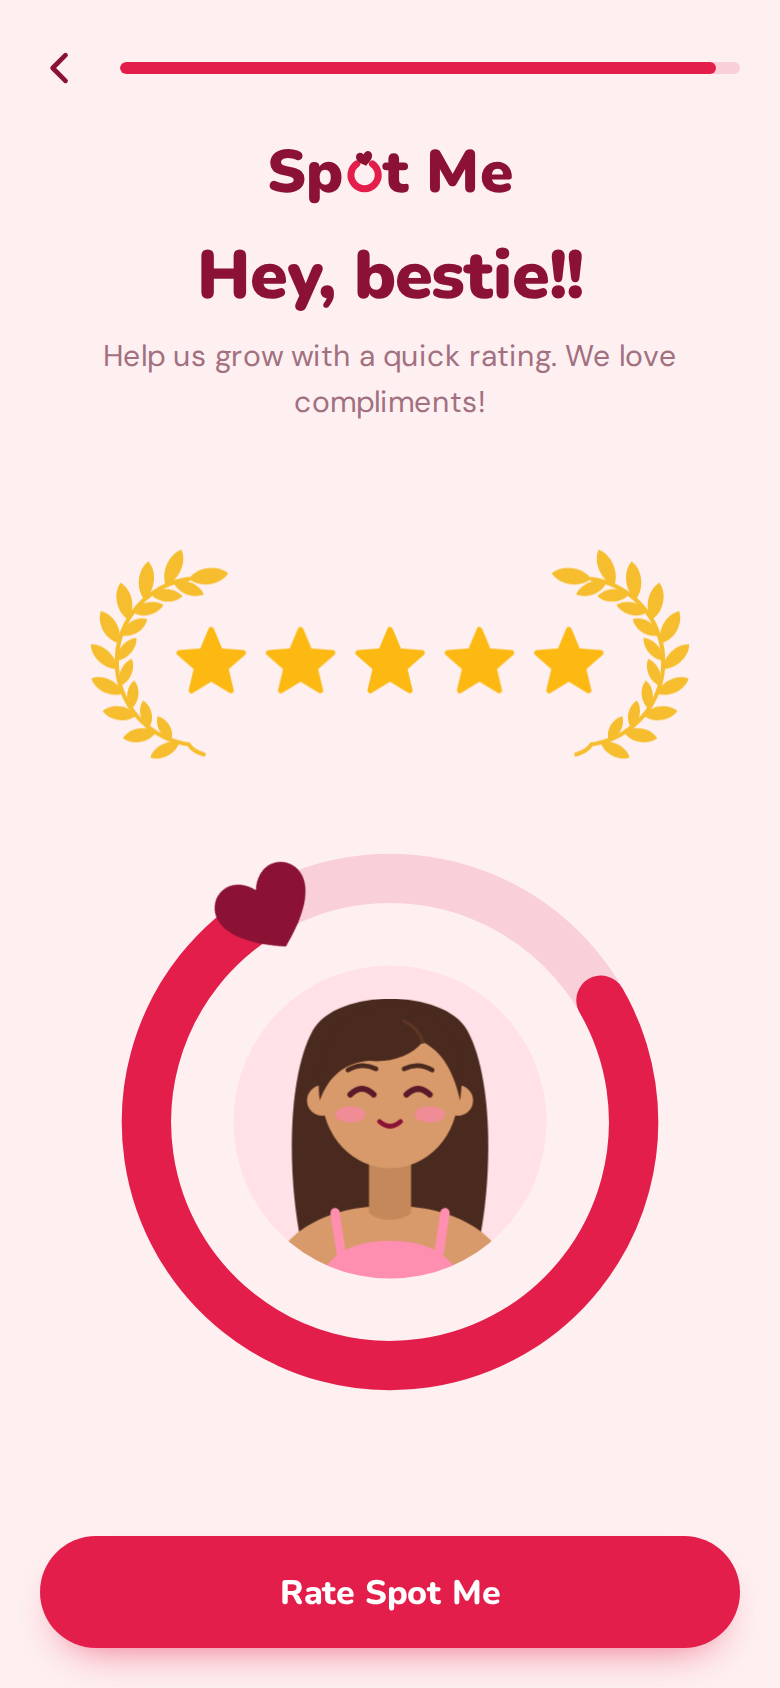
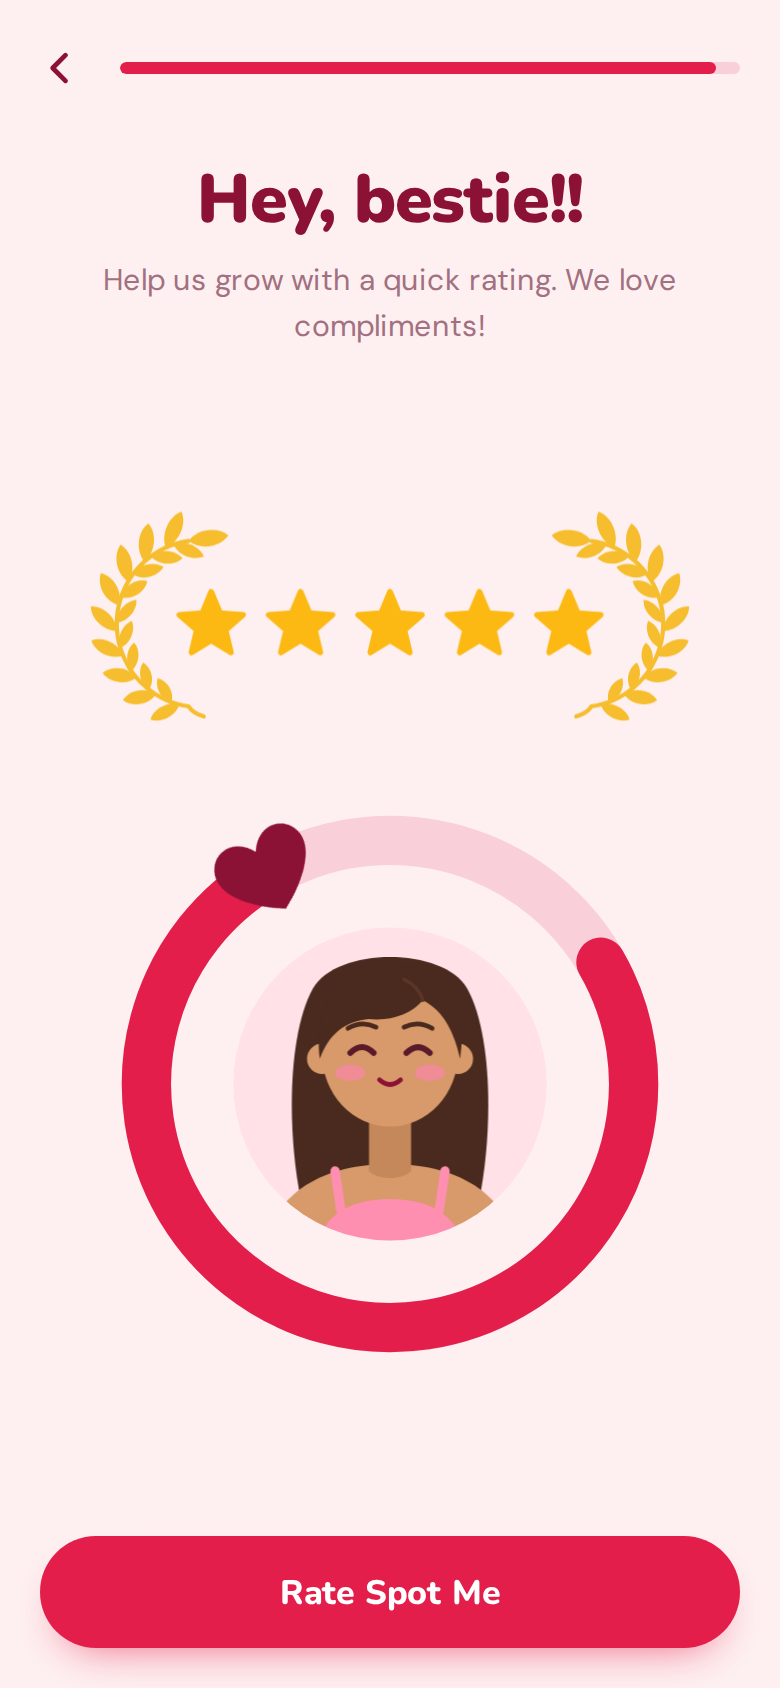
Spot Me rating screen: drop the wordmark
The screen now opens straight on "Hey, bestie!!" under the progress bar.

Claude-Session: https://claude.ai/code/session_01QSF1qugf2Enozdyoznz4re

diff --git a/components/spot-me-rate/style.css b/components/spot-me-rate/style.css
@@ -1,6 +1,6 @@
 /* ==========================================================================
    UI Spot Me Rate — the app rating screen, rebranded for Spot Me
-   A back arrow and progress bar, the Spot Me wordmark, "Hey, bestie!!", five
+   A back arrow and progress bar, "Hey, bestie!!", five
    gold stars between two laurels, the avatar inside the crush ring, and a
    "Rate Spot Me" button. It fills its container, so give the parent the
    screen's height.
@@ -96,33 +96,15 @@
   background: var(--ui-spot-rate-brand);
 }
 
-/* ---- Wordmark, title + copy ---- */
+/* ---- Title + copy ---- */
 
 .ui-spot-rate__intro {
-  margin-top: 18px;
+  margin-top: 28px;
   text-align: center;
 }
 
-/* "Sp" + the ring-and-heart "o" + "t Me", as in the Spot Me logo. */
-.ui-spot-rate__logo {
-  display: inline-flex;
-  align-items: baseline;
-  margin: 0;
-  color: var(--ui-spot-rate-ink);
-  font: 900 30px/1 var(--ui-spot-rate-display);
-  letter-spacing: -0.01em;
-  white-space: pre;
-}
-.ui-spot-rate__logo-o {
-  display: inline-block;
-  width: 0.62em;
-  height: 0.64em;
-  margin: 0 0.02em;
-  overflow: visible;
-}
-
 .ui-spot-rate__title {
-  margin: 18px 0 0;
+  margin: 0;
   font: 900 34px/1.1 var(--ui-spot-rate-display);
   letter-spacing: -0.015em;
 }

diff --git a/components/spot-me-rate/index.html b/components/spot-me-rate/index.html
@@ -55,8 +55,6 @@
     </header>
 
     <div class="ui-spot-rate__intro">
-      <!-- Spot Me wordmark: the "o" is the crush ring with a heart on top -->
-      <p class="ui-spot-rate__logo" role="img" aria-label="Spot Me"><span aria-hidden="true">Sp</span><svg class="ui-spot-rate__logo-o" viewBox="0 0 100 104" aria-hidden="true"><path d="M71.2 26.7A37 37 0 1 1 28.8 26.7" fill="none" stroke="#E31E4A" stroke-width="19" stroke-linecap="round"/><path transform="rotate(-12 50 13)" d="M50 32C36 23 28 15 28 6C28 -1 33 -6 39.5 -6C44 -6 48 -3 50 1C52 -3 56 -6 60.5 -6C67 -6 72 -1 72 6C72 15 64 23 50 32Z" fill="currentColor"/></svg><span aria-hidden="true">t Me</span></p>
       <h1 class="ui-spot-rate__title" id="ui-spot-rate-title">Hey, bestie!!</h1>
       <p class="ui-spot-rate__text">Help us grow with a quick rating. We love compliments!</p>
     </div>

diff --git a/components/spot-me-rate/README.md b/components/spot-me-rate/README.md
@@ -1,12 +1,11 @@
 # Spot Me Rating Screen
 
-The [app rating screen](../rate-screen/) rebranded for Spot Me, a secret diary for your gym crush. It's a full screen, not a popup, with the light "Blush Diary" look: Spot Me's maroon and crush-ring red on blush pink, its wordmark, and the avatar inside the crush ring.
+The [app rating screen](../rate-screen/) rebranded for Spot Me, a secret diary for your gym crush. It's a full screen, not a popup, with the light "Blush Diary" look: Spot Me's maroon and crush-ring red on blush pink, and the avatar inside the crush ring.
 
 ![Spot Me rating screen preview](preview.png)
 
 - **Layout** (top to bottom):
   - Top bar: a back arrow and a red progress bar, almost full.
-  - The Spot Me wordmark. Its "o" is the crush ring, red with a maroon heart on top, built from text and inline SVG.
   - Title "Hey, bestie!!" in heavy Nunito, and "Help us grow with a quick rating. We love compliments!" in DM Sans.
   - Five gold stars between two gold laurel branches, kept from the original screen for now.
   - The avatar from the "Everyone has a gym crush" artwork in a pink circle, inside the crush ring. The ring is three-quarters full, with the heart at its top left.
@@ -17,7 +16,7 @@ The [app rating screen](../rate-screen/) rebranded for Spot Me, a secret diary f
   3. **I rated!** fires `ui-spot-rate:done`, **Not now** fires `ui-spot-rate:skip`, and the back arrow fires `ui-spot-rate:back`.
 - **Motion:** the laurels grow in and the stars pop in one after another. Then the ring fills to three-quarters and the heart pops on at the end of it. After that the heart gives a little beat every few seconds, and the avatar bobs gently. Reduced motion turns all of it off.
 - **Fit:** the screen fills its container and respects the safe-area insets. The ring shrinks to fit shorter phones (it's tested down to an iPhone SE).
-- Plain HTML, CSS and vanilla JS. The wordmark's "o", the stars, laurels, ring and avatar are all inline SVG, so there are no image files.
+- Plain HTML, CSS and vanilla JS. The stars, laurels, ring and avatar are all inline SVG, so there are no image files.
 
 Open `index.html` for the demo. On a laptop it sits in a phone frame, and the line under the frame shows each event as it fires. On a phone it fills the screen.
 
@@ -52,7 +51,7 @@ Set these on `.ui-spot-rate`.
 | Token | Default | Purpose |
 | --- | --- | --- |
 | `--ui-spot-rate-bg` | `#FEF0F1` | Screen background (blush) |
-| `--ui-spot-rate-ink` | `#8B1235` | Wordmark, title, back arrow and heart (maroon) |
+| `--ui-spot-rate-ink` | `#8B1235` | Title, back arrow and heart (maroon) |
 | `--ui-spot-rate-muted` | `#A27080` | Line under the title and "Not now" |
 | `--ui-spot-rate-brand` | `#E31E4A` | Button, progress fill and ring (crush red) |
 | `--ui-spot-rate-brand-ink` | `#FFFFFF` | Button text |
@@ -60,8 +59,6 @@ Set these on `.ui-spot-rate`.
 | `--ui-spot-rate-avatar-bg` | `#FFE1E7` | Circle behind the avatar |
 | `--ui-spot-rate-gold` | `#FDB913` | Stars |
 | `--ui-spot-rate-laurel` | `#F6BE2E` | Laurel branches |
-| `--ui-spot-rate-display` | `"Nunito", …` | Wordmark, title and button |
+| `--ui-spot-rate-display` | `"Nunito", …` | Title and button |
 | `--ui-spot-rate-font` | `"DM Sans", …` | Body text |
 | `--ui-spot-rate-radius` | `999px` | Button corner radius |
-
-The wordmark's "o" uses fixed colours (`#E31E4A` ring, the text colour for the heart), set in its SVG.

diff --git a/README.md b/README.md
@@ -20,4 +20,4 @@ Reusable UI components in plain HTML, CSS and vanilla JS, ready to drop into any
 | [Chef card](components/chef-card/) | The profile card rebranded for Dine In's Brooke Silk: gold on Dine In green, with her four awards on the jacket, her Google rating and a "Book an experience" button |
 | [Animated theme toggler](components/theme-toggler/) | Light/dark switch where the new theme grows out of the button as a circle, using the View Transitions API. A plain-JS rebuild of Magic UI's React component |
 | [App rating screen](components/rate-screen/) | Full-screen "How is Cloey doing?" onboarding step: five gold stars in laurels, a cheering panda, and a "Rate Cloey" button that fires the native review prompt, then becomes "I rated" with a "Not now" link |
-| [Spot Me rating screen](components/spot-me-rate/) | The app rating screen rebranded for Spot Me: "Hey, bestie!!" under the wordmark, stars in laurels, the avatar inside the crush ring, and a "Rate Spot Me" button |
+| [Spot Me rating screen](components/spot-me-rate/) | The app rating screen rebranded for Spot Me: "Hey, bestie!!", stars in laurels, the avatar inside the crush ring, and a "Rate Spot Me" button |
